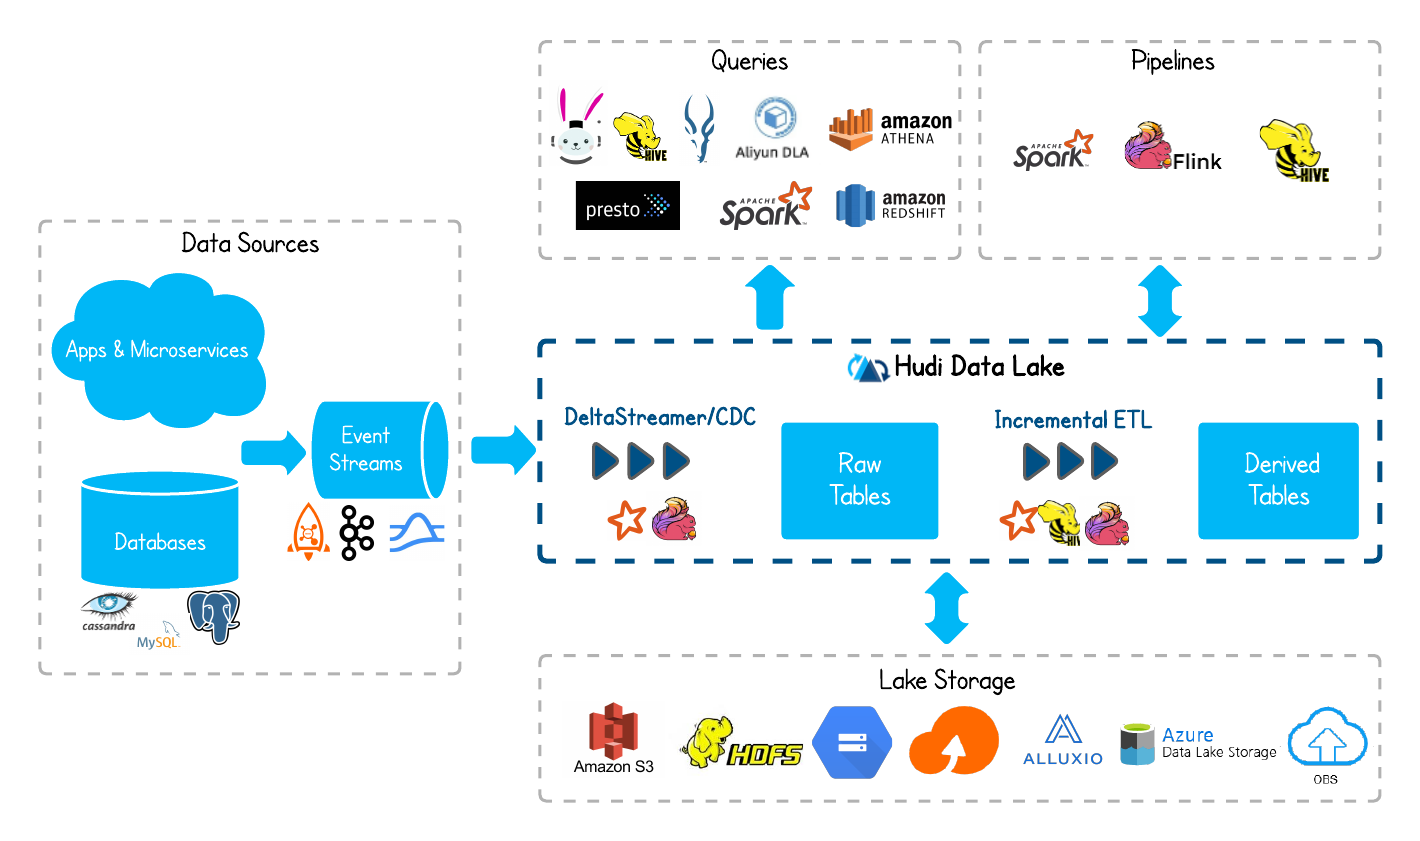
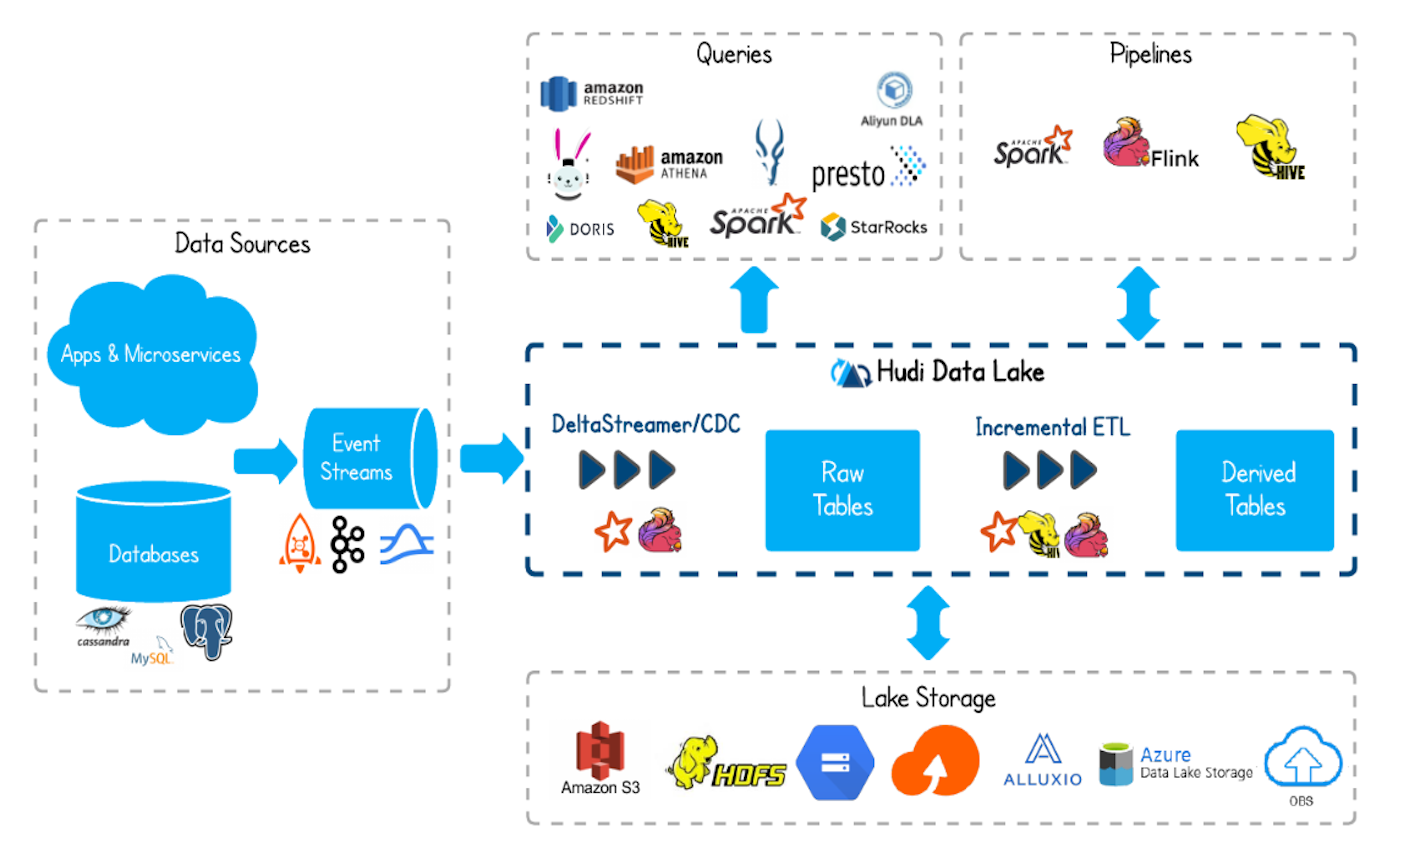
[DOCS] Add support for Apache Doris and StarRocks

Changed region(s): [[0.031, 0.2473, 0.9915, 0.9893], [0.3718, 0.0309, 0.9915, 0.4637], [0.3099, 0.7729, 0.3408, 0.8038]]

diff --git a/website/docs/query_engine_setup.md b/website/docs/query_engine_setup.md
@@ -99,3 +99,18 @@ Hudi tables are supported only when AWS Glue Data Catalog is used. It's not supp
 
 Please refer to [Redshift Spectrum Integration with Apache Hudi](https://docs.aws.amazon.com/redshift/latest/dg/c-spectrum-external-tables.html#c-spectrum-column-mapping-hudi)
 for more details.
+
+## Doris
+Copy on Write Tables in Hudi version 0.10.0 can be queried via Doris external tables starting from Doris version 1.1. 
+Please refer to [Doris Hudi external table](https://doris.apache.org/docs/ecosystem/external-table/hudi-external-table/ )
+for more details on the setup. 
+
+:::note
+The current default supported version of Hudi is 0.10.0 and has not been tested in other versions. More versions will be supported in the future.
+:::
+
+## StarRocks
+Copy on Write tables in Apache Hudi 0.10.0 and above can be queried via StarRocks external tables from StarRocks version 2.2.0. 
+Only snapshot queries are supported currently. In future releases Merge on Read tables will also be supported. 
+Please refer to [StarRocks Hudi external table](https://docs.starrocks.com/en-us/2.2/using_starrocks/External_table#hudi-external-table)
+for more details on the setup.

diff --git a/website/versioned_docs/version-0.10.0/query_engine_setup.md b/website/versioned_docs/version-0.10.0/query_engine_setup.md
@@ -81,3 +81,17 @@ Hudi tables are supported only when AWS Glue Data Catalog is used. It's not supp
 Please refer to [Redshift Spectrum Integration with Apache Hudi](https://docs.aws.amazon.com/redshift/latest/dg/c-spectrum-external-tables.html#c-spectrum-column-mapping-hudi)
 for more details.
 
+## Doris
+Copy on Write Tables in Hudi version 0.10.0 can be queried via Doris external tables starting from Doris version 1.1.
+Please refer to [Doris Hudi external table](https://doris.apache.org/docs/ecosystem/external-table/hudi-external-table/ )
+for more details on the setup.
+
+:::note
+The current default supported version of Hudi is 0.10.0 and has not been tested in other versions. More versions will be supported in the future.
+:::
+
+## StarRocks
+Copy on Write tables in Apache Hudi 0.10.0 and above can be queried via StarRocks external tables from StarRocks version 2.2.0.
+Only snapshot queries are supported currently. In future releases Merge on Read tables will also be supported.
+Please refer to [StarRocks Hudi external table](https://docs.starrocks.com/en-us/2.2/using_starrocks/External_table#hudi-external-table)
+for more details on the setup.

diff --git a/website/versioned_docs/version-0.10.1/query_engine_setup.md b/website/versioned_docs/version-0.10.1/query_engine_setup.md
@@ -61,3 +61,9 @@ In order for Hive to recognize Hudi tables and query correctly,
 In addition to setup above, for beeline cli access, the `hive.input.format` variable needs to be set to the fully qualified path name of the
 inputformat `org.apache.hudi.hadoop.HoodieParquetInputFormat`. For Tez, additionally the `hive.tez.input.format` needs to be set
 to `org.apache.hadoop.hive.ql.io.HiveInputFormat`. Then proceed to query the table like any other Hive table.
+
+## StarRocks
+Copy on Write tables in Apache Hudi 0.10.0 and above can be queried via StarRocks external tables from StarRocks version 2.2.0.
+Only snapshot queries are supported currently. In future releases Merge on Read tables will also be supported.
+Please refer to [StarRocks Hudi external table](https://docs.starrocks.com/en-us/2.2/using_starrocks/External_table#hudi-external-table)
+for more details on the setup.

diff --git a/website/versioned_docs/version-0.11.0/query_engine_setup.md b/website/versioned_docs/version-0.11.0/query_engine_setup.md
@@ -71,3 +71,9 @@ In order for Hive to recognize Hudi tables and query correctly,
 In addition to setup above, for beeline cli access, the `hive.input.format` variable needs to be set to the fully qualified path name of the
 inputformat `org.apache.hudi.hadoop.HoodieParquetInputFormat`. For Tez, additionally the `hive.tez.input.format` needs to be set
 to `org.apache.hadoop.hive.ql.io.HiveInputFormat`. Then proceed to query the table like any other Hive table.
+
+## StarRocks
+Copy on Write tables in Apache Hudi 0.10.0 and above can be queried via StarRocks external tables from StarRocks version 2.2.0.
+Only snapshot queries are supported currently. In future releases Merge on Read tables will also be supported.
+Please refer to [StarRocks Hudi external table](https://docs.starrocks.com/en-us/2.2/using_starrocks/External_table#hudi-external-table)
+for more details on the setup.

diff --git a/website/versioned_docs/version-0.11.1/query_engine_setup.md b/website/versioned_docs/version-0.11.1/query_engine_setup.md
@@ -71,3 +71,9 @@ In order for Hive to recognize Hudi tables and query correctly,
 In addition to setup above, for beeline cli access, the `hive.input.format` variable needs to be set to the fully qualified path name of the
 inputformat `org.apache.hudi.hadoop.HoodieParquetInputFormat`. For Tez, additionally the `hive.tez.input.format` needs to be set
 to `org.apache.hadoop.hive.ql.io.HiveInputFormat`. Then proceed to query the table like any other Hive table.
+
+## StarRocks
+Copy on Write tables in Apache Hudi 0.10.0 and above can be queried via StarRocks external tables from StarRocks version 2.2.0.
+Only snapshot queries are supported currently. In future releases Merge on Read tables will also be supported.
+Please refer to [StarRocks Hudi external table](https://docs.starrocks.com/en-us/2.2/using_starrocks/External_table#hudi-external-table)
+for more details on the setup.

diff --git a/website/versioned_docs/version-0.10.0/querying_data.md b/website/versioned_docs/version-0.10.0/querying_data.md
@@ -207,6 +207,12 @@ REFRESH database.table_name
 ## Redshift Spectrum
 To set up Redshift Spectrum for querying Hudi, see the [Query Engine Setup](/docs/0.10.0/query_engine_setup#redshift-spectrum) page.
 
+## Doris
+To set up Doris for querying Hudi, see the [Query Engine Setup](/docs/0.10.0/query_engine_setup#doris) page.
+
+## StarRocks
+To set up StarRocks for querying Hudi, see the [Query Engine Setup](/docs/0.10.0/query_engine_setup#starrocks) page.
+
 ## Support Matrix
 
 Following tables show whether a given query is supported on specific query engine.
@@ -223,6 +229,8 @@ Following tables show whether a given query is supported on specific query engin
 |**Trino**|Y|N|
 |**Impala**|Y|N|
 |**Redshift Spectrum** |Y|N|
+| **Doris**             |Y|N|
+| **StarRocks**         |Y|N|
 
 
 Note that `Read Optimized` queries are not applicable for COPY_ON_WRITE tables.

diff --git a/website/docs/querying_data.md b/website/docs/querying_data.md
@@ -269,6 +269,11 @@ REFRESH database.table_name
 ## Redshift Spectrum
 To set up Redshift Spectrum for querying Hudi, see the [Query Engine Setup](/docs/next/query_engine_setup#redshift-spectrum) page.
 
+## Doris 
+To set up Doris for querying Hudi, see the [Query Engine Setup](/docs/next/query_engine_setup#doris) page.
+
+## StarRocks
+To set up StarRocks for querying Hudi, see the [Query Engine Setup](/docs/next/query_engine_setup#starrocks) page.
 
 ## Support Matrix
 
@@ -286,6 +291,8 @@ Following tables show whether a given query is supported on specific query engin
 | **Trino**             |Y|N|
 | **Impala**            |Y|N|
 | **Redshift Spectrum** |Y|N|
+| **Doris**             |Y|N|
+| **StarRocks**         |Y|N|
 
 
 

diff --git a/website/versioned_docs/version-0.12.0/query_engine_setup.md b/website/versioned_docs/version-0.12.0/query_engine_setup.md
@@ -99,3 +99,9 @@ Hudi tables are supported only when AWS Glue Data Catalog is used. It's not supp
 
 Please refer to [Redshift Spectrum Integration with Apache Hudi](https://docs.aws.amazon.com/redshift/latest/dg/c-spectrum-external-tables.html#c-spectrum-column-mapping-hudi)
 for more details.
+
+## StarRocks
+Copy on Write tables in Apache Hudi 0.10.0 and above can be queried via StarRocks external tables from StarRocks version 2.2.0.
+Only snapshot queries are supported currently. In future releases Merge on Read tables will also be supported.
+Please refer to [StarRocks Hudi external table](https://docs.starrocks.com/en-us/2.2/using_starrocks/External_table#hudi-external-table)
+for more details on the setup.

diff --git a/website/versioned_docs/version-0.11.1/querying_data.md b/website/versioned_docs/version-0.11.1/querying_data.md
@@ -205,6 +205,10 @@ After Hudi made a new commit, refresh the Impala table to get the latest results
 REFRESH database.table_name
 ```
 
+
+## StarRocks
+To set up StarRocks for querying Hudi, see the [Query Engine Setup](/docs/0.11.1/query_engine_setup#starrocks) page.
+
 ## Support Matrix
 
 Following tables show whether a given query is supported on specific query engine.
@@ -220,6 +224,7 @@ Following tables show whether a given query is supported on specific query engin
 |**PrestoDB**|Y|N|
 |**Trino**|Y|N|
 |**Impala**|Y|N|
+| **StarRocks**         |Y|N|
 
 
 Note that `Read Optimized` queries are not applicable for COPY_ON_WRITE tables.

diff --git a/website/versioned_docs/version-0.10.1/querying_data.md b/website/versioned_docs/version-0.10.1/querying_data.md
@@ -205,6 +205,9 @@ After Hudi made a new commit, refresh the Impala table to get the latest results
 REFRESH database.table_name
 ```
 
+## StarRocks
+To set up StarRocks for querying Hudi, see the [Query Engine Setup](/docs/0.10.1/query_engine_setup#starrocks) page.
+
 ## Support Matrix
 
 Following tables show whether a given query is supported on specific query engine.
@@ -220,6 +223,7 @@ Following tables show whether a given query is supported on specific query engin
 |**PrestoDB**|Y|N|
 |**Trino**|Y|N|
 |**Impala**|Y|N|
+| **StarRocks**         |Y|N|
 
 
 Note that `Read Optimized` queries are not applicable for COPY_ON_WRITE tables.

diff --git a/website/versioned_docs/version-0.11.0/querying_data.md b/website/versioned_docs/version-0.11.0/querying_data.md
@@ -205,6 +205,9 @@ After Hudi made a new commit, refresh the Impala table to get the latest results
 REFRESH database.table_name
 ```
 
+## StarRocks
+To set up StarRocks for querying Hudi, see the [Query Engine Setup](/docs/0.11.0/query_engine_setup#starrocks) page.
+
 ## Support Matrix
 
 Following tables show whether a given query is supported on specific query engine.
@@ -220,6 +223,7 @@ Following tables show whether a given query is supported on specific query engin
 |**PrestoDB**|Y|N|
 |**Trino**|Y|N|
 |**Impala**|Y|N|
+| **StarRocks**         |Y|N|
 
 
 Note that `Read Optimized` queries are not applicable for COPY_ON_WRITE tables.

diff --git a/website/versioned_docs/version-0.12.0/querying_data.md b/website/versioned_docs/version-0.12.0/querying_data.md
@@ -270,6 +270,9 @@ REFRESH database.table_name
 To set up Redshift Spectrum for querying Hudi, see the [Query Engine Setup](/docs/next/query_engine_setup#redshift-spectrum) page.
 
 
+## StarRocks
+To set up StarRocks for querying Hudi, see the [Query Engine Setup](/docs/query_engine_setup#starrocks) page.
+
 ## Support Matrix
 
 Following tables show whether a given query is supported on specific query engine.
@@ -286,6 +289,7 @@ Following tables show whether a given query is supported on specific query engin
 | **Trino**             |Y|N|
 | **Impala**            |Y|N|
 | **Redshift Spectrum** |Y|N|
+| **StarRocks**         |Y|N|
 
 
 
